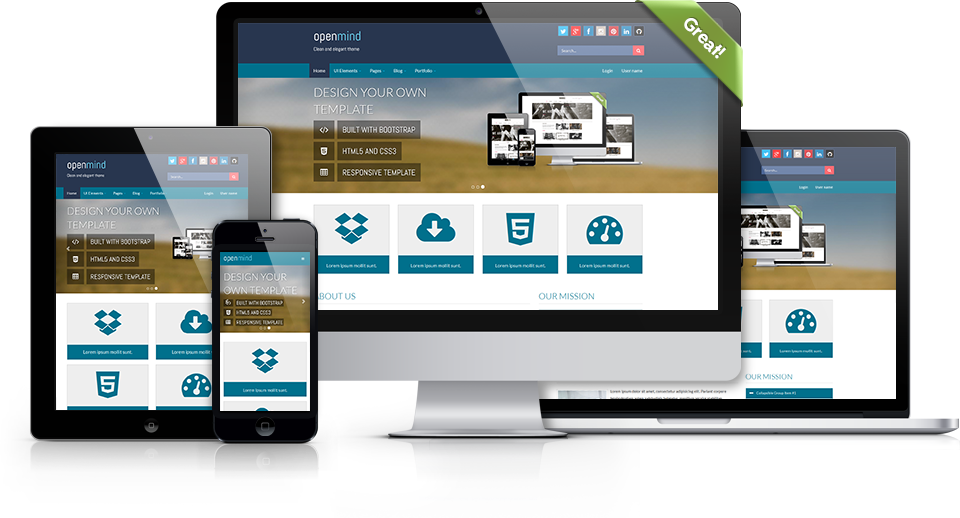
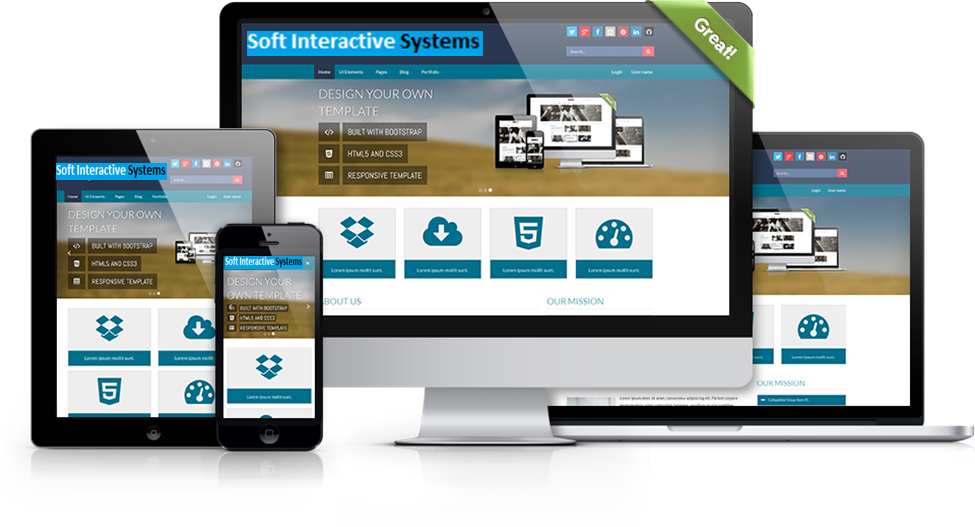
Home Page Image and Text edit

diff --git a/index.html b/index.html
@@ -184,7 +184,7 @@
                                 <div class="col-md-6 col-sm-7">
                                     <div class="carousel-caption">
                                         <div class="carousel-text">
-                                           <h1 class="animated fadeInDownBig">The template that adapts to all projects</h1>
+                                           <h1 class="animated fadeInDownBig">Responsive design for you business applications</h1>
                                            <ul class="list-unstyled carousel-list">
                                                <li class="animated bounceInLeft"><i class="fa fa-code"></i><span>Built with Bootstrap</span></li>
                                                <li class="animated bounceInLeft"><i class="fa fa-html5"></i><span>HTML5 and CSS3</span></li>
@@ -207,7 +207,7 @@
                                 <div class="col-md-6 col-sm-8">
                                     <div class="carousel-caption">
                                         <div class="carousel-text">
-                                           <h1 class="animated fadeInDownBig">design your own template very easily</h1>
+                                           <h1 class="animated fadeInDownBig">Native Applications for your device</h1>
                                            <ul class="list-unstyled carousel-list">
                                                <li class="animated bounceInLeft"><i class="fa fa-eye"></i><span>More Than 15 Colors</span></li>
                                                <li class="animated bounceInLeft"><i class="fa fa-th-large"></i><span>Customizable Components</span></li>
@@ -234,7 +234,7 @@
                                            <ul class="list-unstyled carousel-list">
                                                <li class="animated bounceInLeft"><i class="fa fa-code"></i><span>Javascript and HTML Site Dev.</span></li>
                                                <li class="animated bounceInLeft"><i class="fa fa-html5"></i><span>HTML5 and CSS3 Site Dev.</span></li>
-                                               <li class="animated bounceInLeft"><i class="fa fa-upload"></i><span>Content Management Systems Dev.</span></li>
+                                               <li class="animated bounceInLeft"><i class="fa fa-upload"></i><span>Content Management System Dev.</span></li>
                                            </ul>
                                        </div>
                                     </div>
